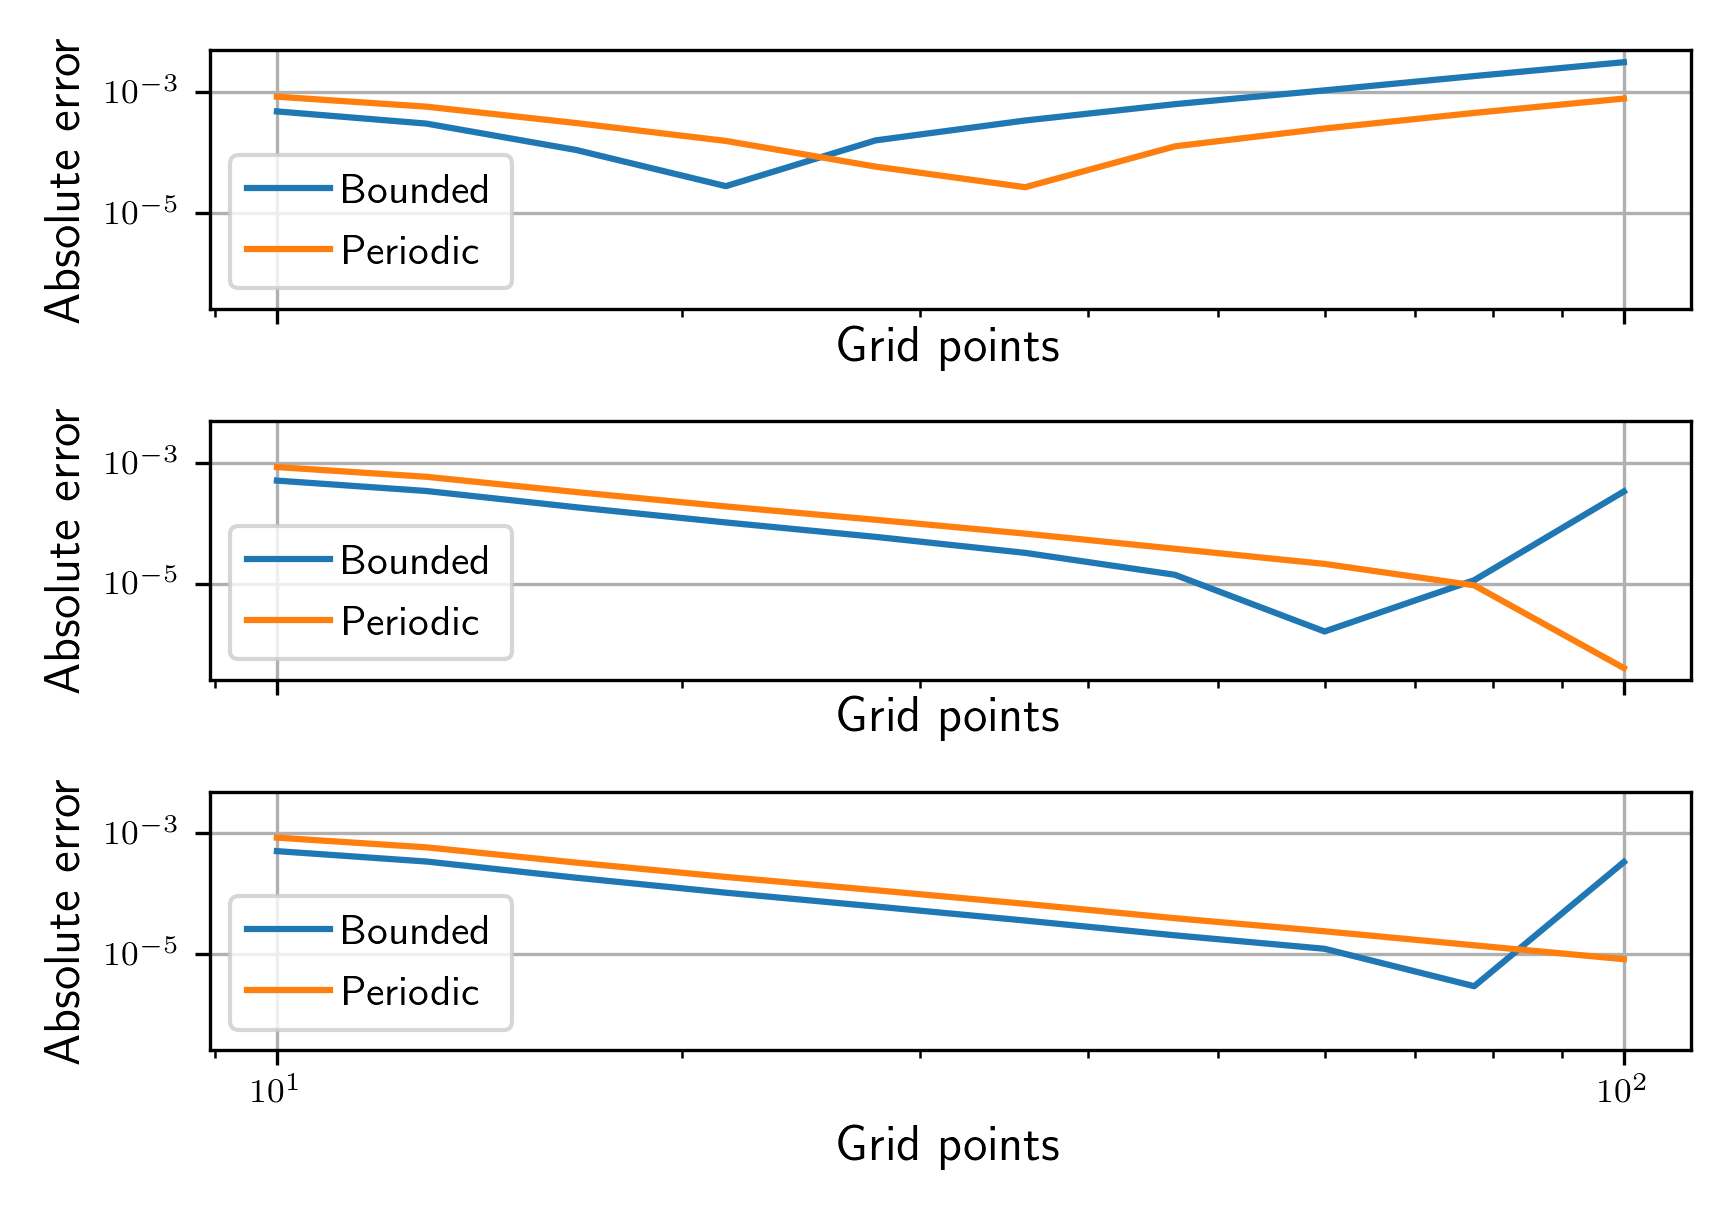
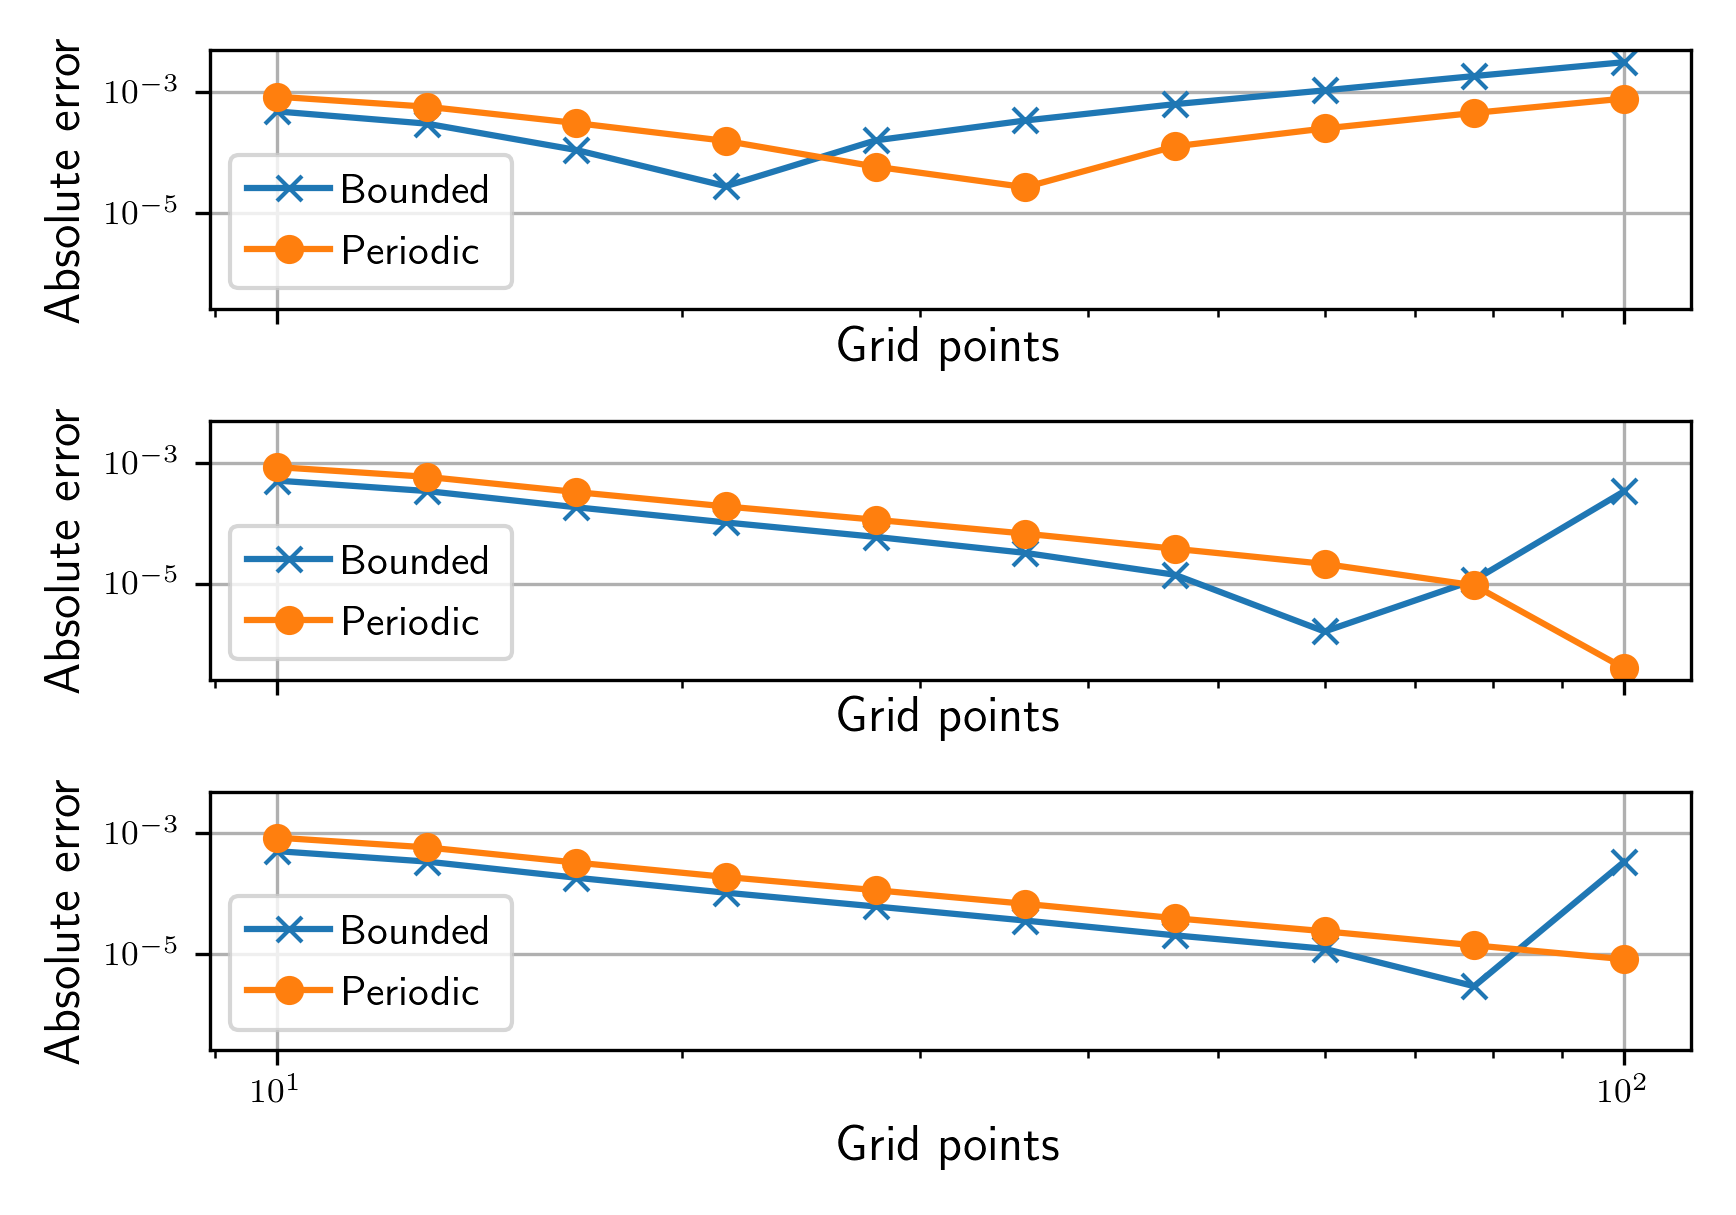
Add markers to error plot

diff --git a/Project5/src/postprocess.py b/Project5/src/postprocess.py
@@ -109,9 +109,9 @@ def plot_error():
     fig, ax = plt.subplots(3, sharex=True, sharey=True, figsize=figsize)
     for target, axis in zip([1e-6, 1e-8, 1e-10], ax):
         abs, rel, nx = error_jacobi_bounded(target=target)
-        axis.plot(nx, abs, label='Bounded')
+        axis.plot(nx, abs, label='Bounded', marker='x')
         abs, rel, nx = error_jacobi_periodic(target=target)
-        axis.plot(nx, abs, label='Periodic')
+        axis.plot(nx, abs, label='Periodic', marker='o')
         axis.set_xscale('log')
         axis.set_yscale('log')
         axis.grid()
